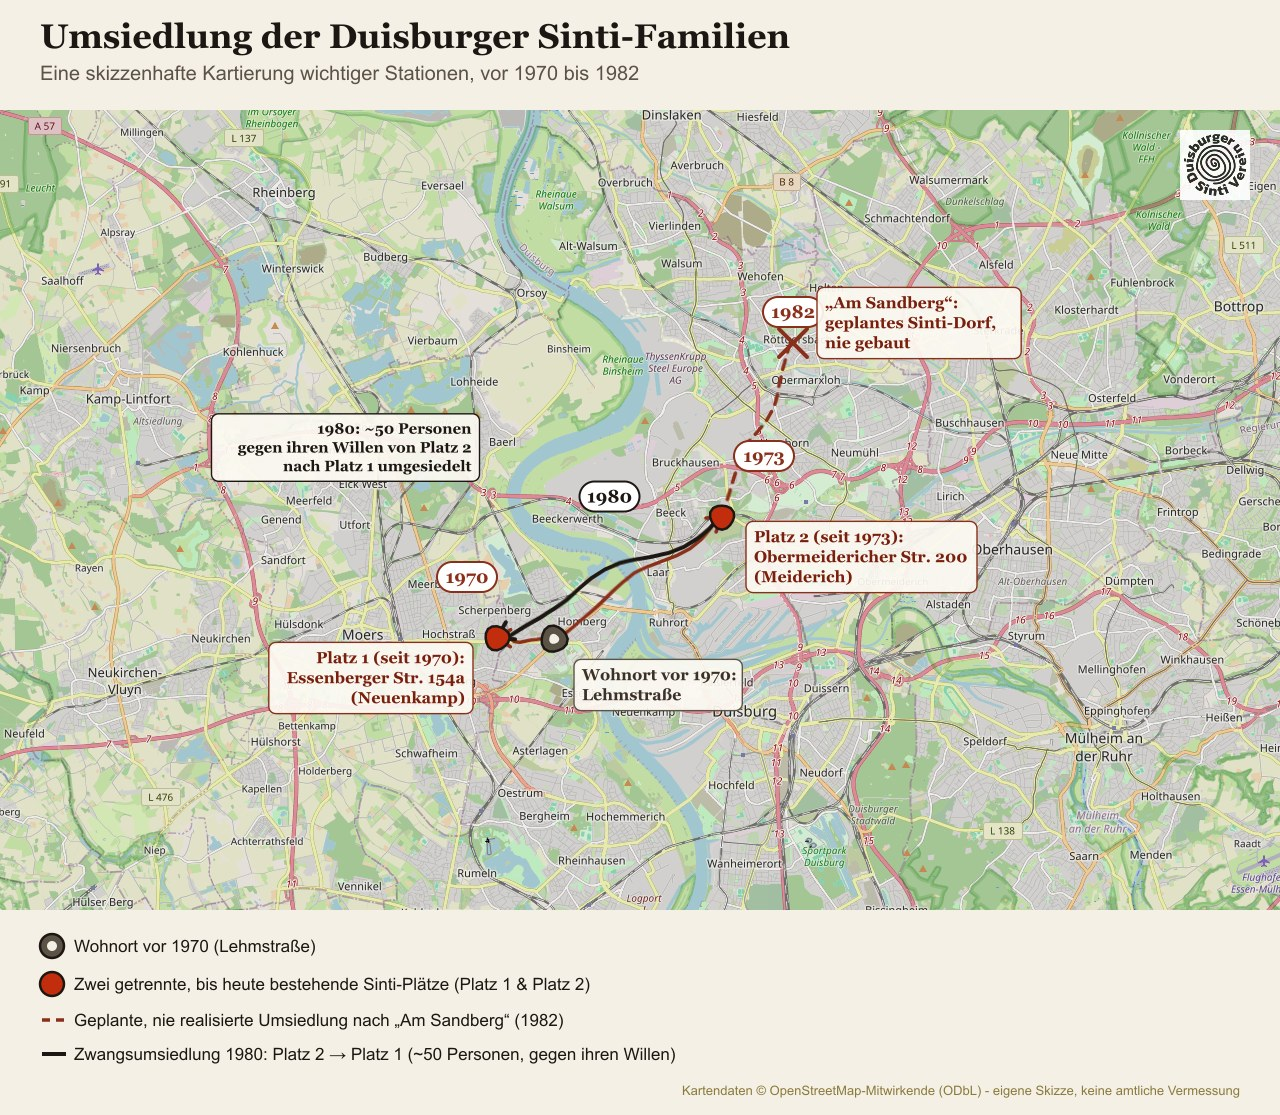
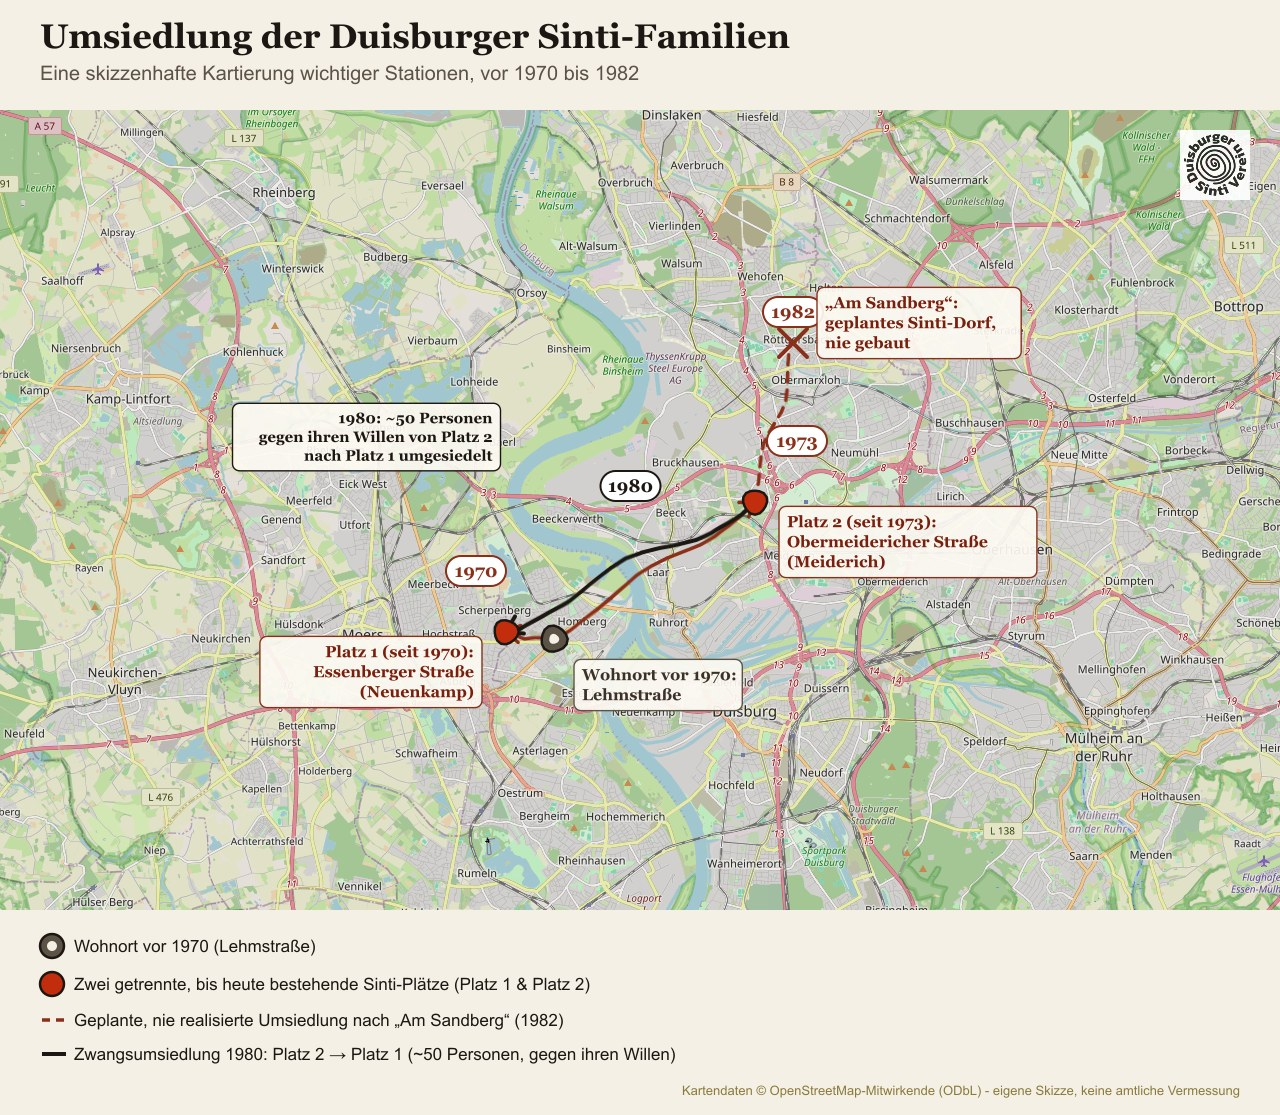
Entferne Hausnummern der Sinti-Plätze aus Texten und Karte
Aus Datenschutzgründen: Essenberger Straße und Obermeidericher Straße
werden nur noch ohne Hausnummer genannt, damit die Plätze zwar
zuordbar bleiben, aber nicht sofort exakt auffindbar sind. Die
Skizzenkarte markiert die Plätze jetzt zusätzlich nur noch auf
Stadtteil-Ebene (Neuenkamp/Obermeiderich) statt an der exakten
Adresse.

diff --git a/src/ueber-uns.md b/src/ueber-uns.md
@@ -24,7 +24,7 @@ Gegründet wurde der Verein am 25. Juli 2022 im Zentrum für Kultur Hochfeld, na
 
 Ein zentrales Anliegen des Vereins ist der dauerhafte Erhalt und die rechtliche Absicherung der angestammten Sinti-Plätze an der Essenberger Straße (Neuenkamp) und der Obermeidericher Straße (Meiderich). Die Geschichte dieser Plätze reicht über 50 Jahre zurück:
 
-- **1970er-Jahre**: Die Stadt Duisburg siedelt Sinti-Familien in barackenähnlichen Wohnbereichen an, insbesondere ab 1970 an der Essenberger Straße 154a in Neuenkamp und 1973 in Containern an der Obermeidericher Straße 200 in Meiderich – ohne langfristige Perspektive oder rechtliche Sicherung. Die zuvor an der Lehmstraße untergebrachten Familien, allesamt Holocaust-Überlebende, hatten sich die Plätze selbst aufgebaut und befürchteten schon damals, dass diese zu klein bemessen seien.
+- **1970er-Jahre**: Die Stadt Duisburg siedelt Sinti-Familien in barackenähnlichen Wohnbereichen an, insbesondere ab 1970 an der Essenberger Straße in Neuenkamp und 1973 in Containern an der Obermeidericher Straße in Meiderich – ohne langfristige Perspektive oder rechtliche Sicherung. Die zuvor an der Lehmstraße untergebrachten Familien, allesamt Holocaust-Überlebende, hatten sich die Plätze selbst aufgebaut und befürchteten schon damals, dass diese zu klein bemessen seien.
 - **1980**: Nachdem Familien gegen ihren Willen von der Obermeidericher Straße in ein Haus an der Essenberger Straße umgesiedelt worden waren, eskaliert die Lage mit einer Schießerei auf ein Familienmitglied. Sozialamtsleiter Klaus Quirmbach sagt die Suche nach einem geeigneteren Grundstück zu; ein geplanter Platz "Am Sandberg" scheitert am Widerstand des Hamborner Siedler-Vereins. Seit 1988 liegt die Betreuungsverantwortung offiziell bei der Stadt Duisburg.
 - **1993**: Die Stadt kündigt trotz angespannter Haushaltslage neue Unterkünfte bis Ende des Jahres an – ohne dass es zu verbindlichen Maßnahmen kommt. Zu dieser Zeit lebt die schwerkranke Antonia Mettbach, KZ-Ravensbrück-Überlebende, noch in den Baracken.
 - **2002**: Eine Mitteilungsvorlage der Stadt befasst sich mit der dringenden Notwendigkeit einer dauerhaften Wohnversorgung für 12 Sinti-Familien (35 Personen) in den desolaten Wohncontainern an Sandbergstraße, Essenberger Straße und Obermeidericher Straße. Die Bezirksregierung signalisiert Unterstützung für den Bau von vier Steinhäusern, die Stadt setzt das Vorhaben jedoch letztlich nicht um.

diff --git a/src/presse/2007-12-18-caritas-brief-sauerland.md b/src/presse/2007-12-18-caritas-brief-sauerland.md
@@ -8,7 +8,7 @@ titelbild: /assets/img/uploads/presse/vorschau/caritas-brief-sauerland.jpg
 link: /assets/img/uploads/presse/2007-caritas-brief-sauerland.pdf
 ---
 
-Der Caritas-Direktor Hans-Jürgen Kocar wendet sich am 18.12.2007 in einem Begleitschreiben an Oberbürgermeister Sauerland und unterstützt darin die Bitte von Siegfried Mettbach um ein dauerhaftes Wohnrecht für die Sinti-Familien an der Obermeidericher Straße 200, etwa durch einen Miet- oder Pachtvertrag.
+Der Caritas-Direktor Hans-Jürgen Kocar wendet sich am 18.12.2007 in einem Begleitschreiben an Oberbürgermeister Sauerland und unterstützt darin die Bitte von Siegfried Mettbach um ein dauerhaftes Wohnrecht für die Sinti-Familien an der Obermeidericher Straße, etwa durch einen Miet- oder Pachtvertrag.
 
 Beigefügt ist Mettbachs eigener Brief vom 14.12.2007, in dem er von einem Gespräch mit dem städtischen Vertreter Herrn Reiss am 30.10.2007 berichtet. Mettbach, der seit 1973 an diesem Standort lebt, schildert darin auch, dass sein Begleiter Ralf Pietras (PDS) von Reiss unter Verweis auf dessen Parteizugehörigkeit gebeten wurde, das Gespräch zu verlassen:
 
